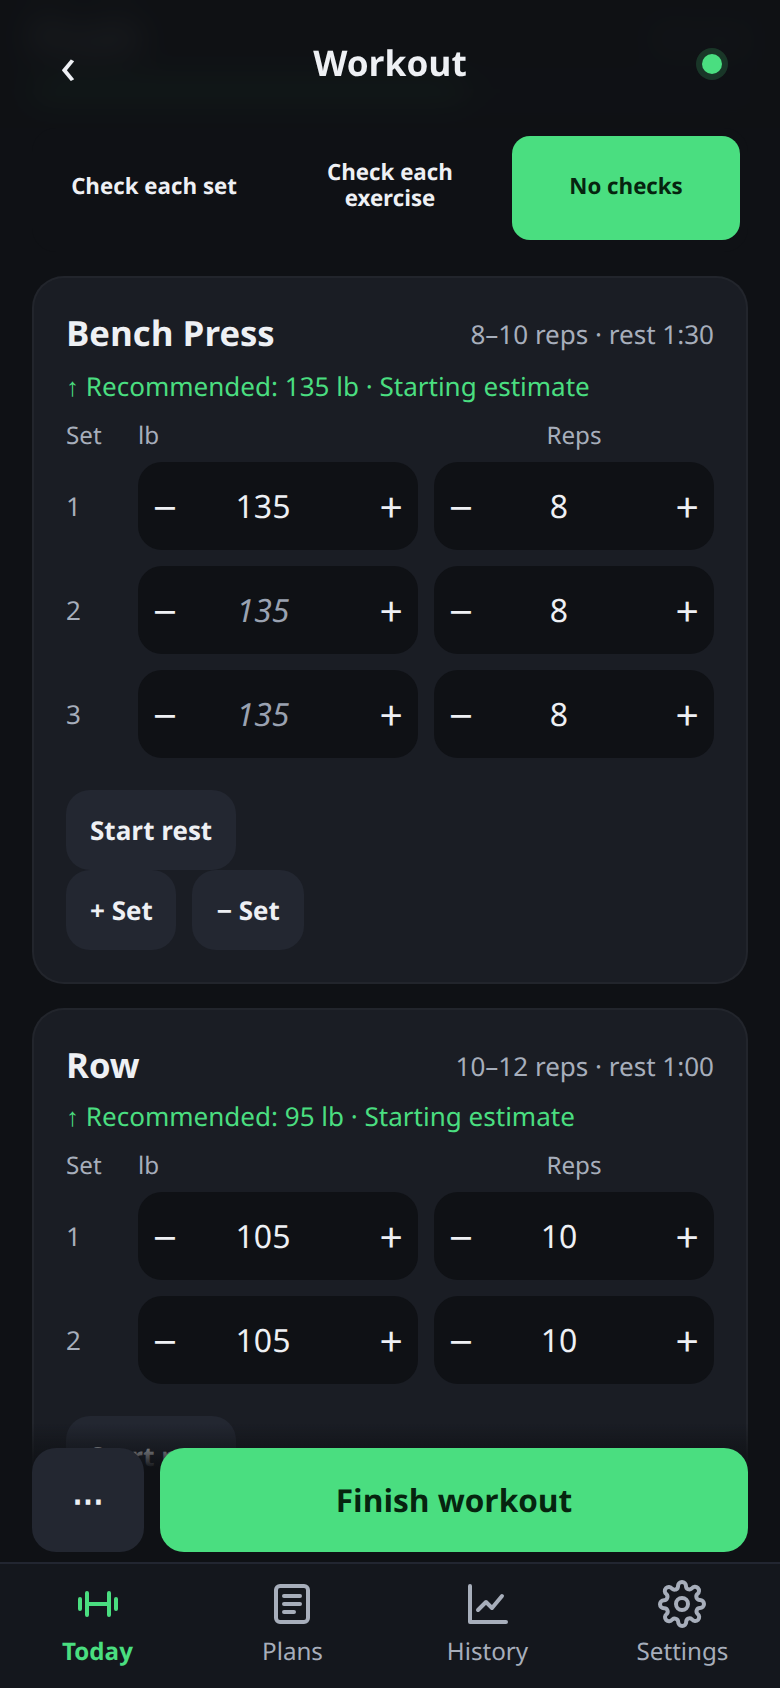
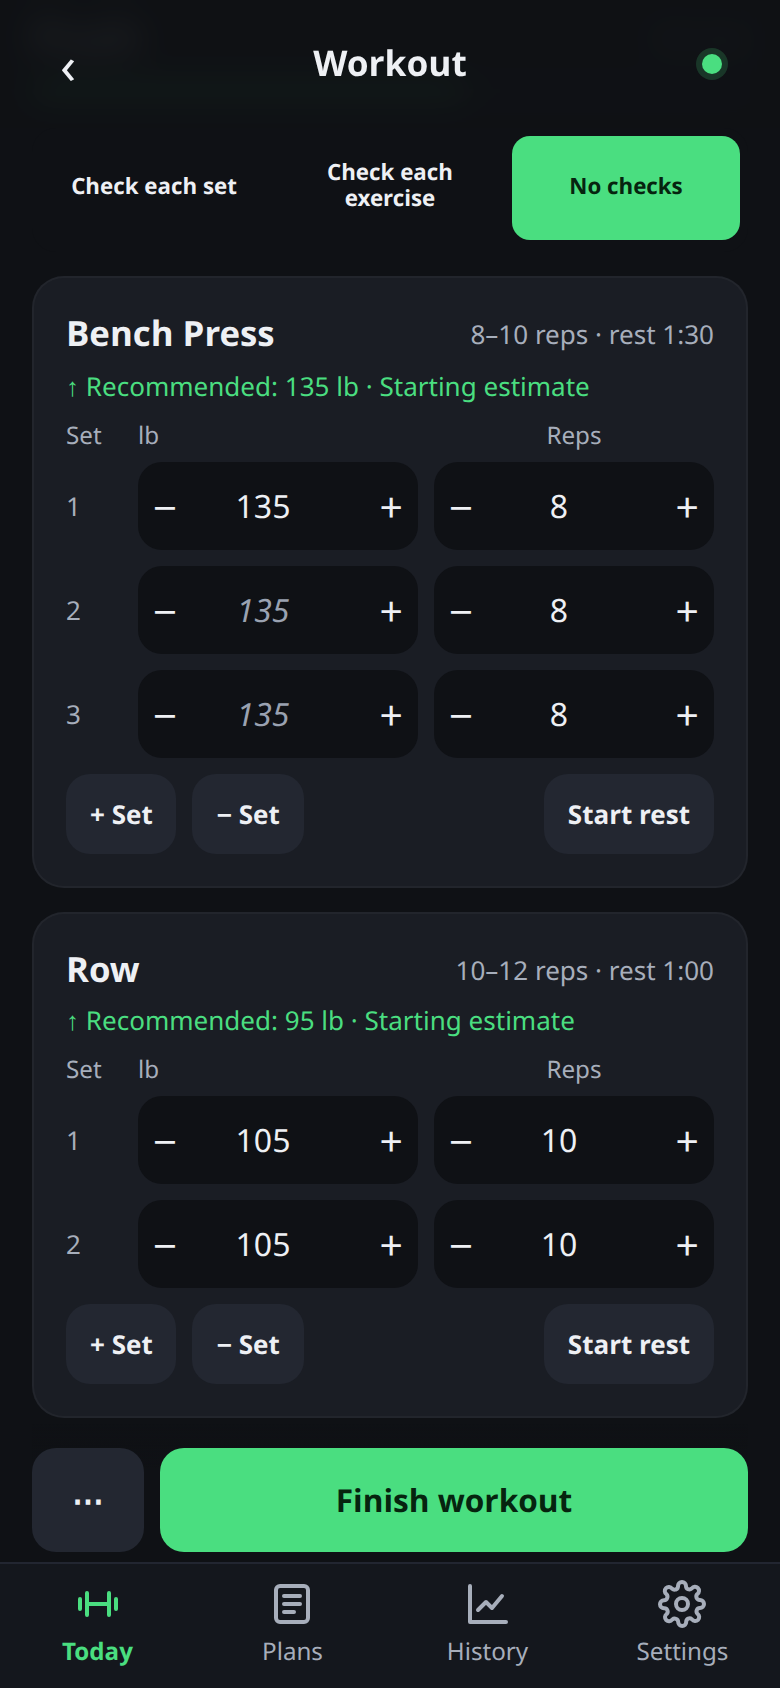
fix: put Start rest on the set button row
In No checks mode, Start rest sits on the same row as + Set and − Set, at the end of the row.

diff --git a/app.js b/app.js
@@ -300,8 +300,7 @@ session(){
       <div class="step"><button data-act="stp" data-j="${j}" data-k="${k}" data-f="w" data-d="-1" aria-label="${tA('s.lessW')}, ${L}">−</button><input type="number" inputmode="decimal" data-bind="set.${j}.${k}.w" class="${s.ws==='s'?'sugw':''}" value="${esc(s.w===''||s.w==null?'':fmtW(s.w))}" aria-label="${L}, ${tA('s.weightIn',{u:U()})}"><button data-act="stp" data-j="${j}" data-k="${k}" data-f="w" data-d="1" aria-label="${tA('s.moreW')}, ${L}">+</button></div>
       <div class="step"><button data-act="stp" data-j="${j}" data-k="${k}" data-f="r" data-d="-1" aria-label="${tA('s.fewerR')}, ${L}">−</button><input type="number" inputmode="numeric" data-bind="set.${j}.${k}.r" value="${esc(s.r)}" aria-label="${L}, ${tA('reps')}"><button data-act="stp" data-j="${j}" data-k="${k}" data-f="r" data-d="1" aria-label="${tA('s.moreR')}, ${L}">+</button></div>
       ${checks?`<button class="done ${s.done?'on':''}" data-act="setDone" data-j="${j}" data-k="${k}" aria-label="${L}, ${tA('done')}" aria-pressed="${!!s.done}">✓</button>`:''}</div>`}).join('')}
-    ${mode==='none'?`<button class="btn sm restgo" data-act="restGo" data-j="${j}">${t('cm.rest')}</button>`:''}
-    <div class="row"><button class="btn sm" data-act="setAdd" data-j="${j}">+ ${t('s.set')}</button>${e.sets.length>1?`<button class="btn sm" data-act="setDel" data-j="${j}">− ${t('s.set')}</button>`:''}</div></div>`}).join('')}
+    <div class="row settools"><button class="btn sm" data-act="setAdd" data-j="${j}">+ ${t('s.set')}</button>${e.sets.length>1?`<button class="btn sm" data-act="setDel" data-j="${j}">− ${t('s.set')}</button>`:''}${mode==='none'?`<button class="btn sm restgo" data-act="restGo" data-j="${j}">${t('cm.rest')}</button>`:''}</div></div>`}).join('')}
   <div class="sessfoot"><button class="btn" data-act="sessMenu" aria-label="${tA('s.more')}">⋯</button><button class="btn acc grow" data-act="finish">${t('s.finish')}</button></div>`;
 },
 history({off=0}){

diff --git a/style.css b/style.css
@@ -101,7 +101,7 @@ details summary{cursor:pointer;padding:6px 0;min-height:32px}
 .ex-card .exmeta{display:flex;align-items:center;gap:8px;flex:none;max-width:68%}
 .ex-card .exmeta .mut{max-width:none;text-align:end}
 .done.exdone{width:56px;height:56px;border-radius:16px;font-size:calc(28px*var(--fs));flex:none}
-.restgo{margin-top:8px}
+.row .restgo{margin-inline-start:auto}
 .modes{grid-template-columns:repeat(3,1fr)}
 .modes button{font-size:calc(12px*var(--fs));white-space:normal;min-height:52px;padding:6px 4px}
 .sessfoot{position:sticky;bottom:calc(58px + env(safe-area-inset-bottom));z-index:4;padding:12px 0 10px;background:linear-gradient(rgba(15,17,21,0),var(--bg) 30%);display:grid;grid-template-columns:56px 1fr;gap:var(--s2);margin-top:var(--s4)}.sessfoot .btn{min-height:52px;font-size:calc(17px*var(--fs))}
